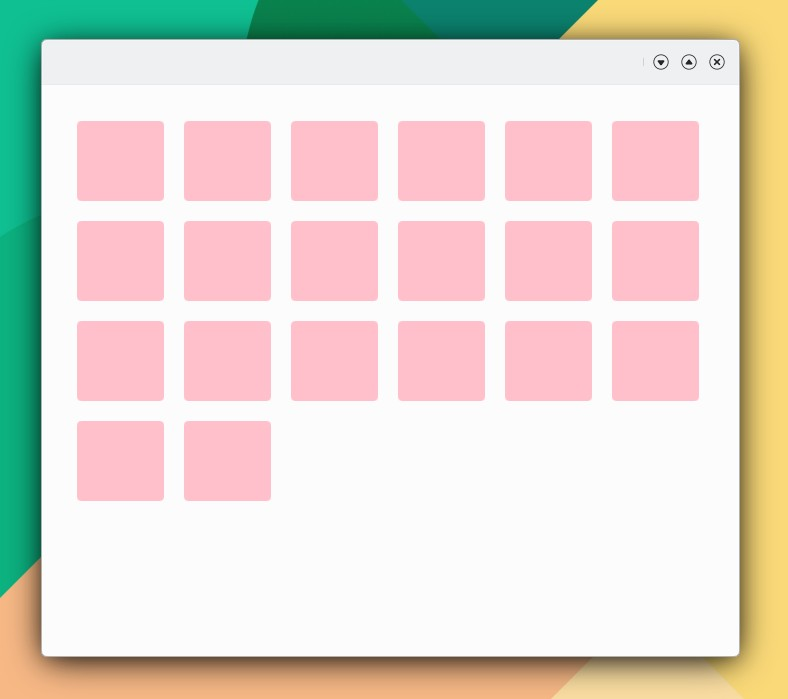
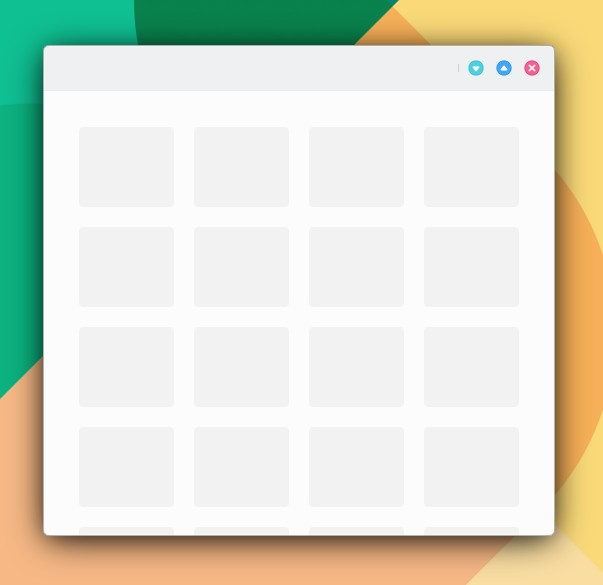
GITBOOK-233: change request with no subject merged in GitBook

diff --git a/mauikit/controles/gridbrowser.md b/mauikit/controles/gridbrowser.md
@@ -37,14 +37,12 @@ Maui.ApplicationWindow
                     anchors.fill: parent
                     anchors.margins: 10
                     radius: 4
-                    color: "pink"
+                    color: Maui.Theme.alternateBackgroundColor
                 }
             }
         }
     }
 }
-
-
 ```
 
 ```
@@ -52,7 +50,7 @@ horizontalScrollBarPolicy: ScrollBar.AsNeeded, ScrollBar.AlwaysOn, ScrollBar.Alw
 verticalScrollBarPolicy: ScrollBar.AsNeeded, ScrollBar.AlwaysOn, ScrollBar.AlwaysOff
 ```
 
-<figure><img src="../../.gitbook/assets/Controls-GridBrowser (1).jpg" alt=""><figcaption></figcaption></figure>
+<figure><img src="../../.gitbook/assets/Controls-GridBrowser.jpg" alt=""><figcaption></figcaption></figure>
 
 ## Propiedades
 
